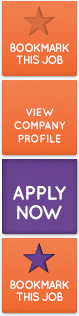
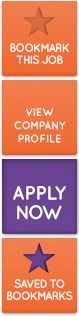
modify some linkages

Changed region(s): [[0.0759, 0.8829, 0.9367, 0.9684]]

diff --git a/theme/default/js/search-result.js b/theme/default/js/search-result.js
@@ -184,7 +184,8 @@ $(function(){
     var popDeleteJob = $('.pop-delete-job'),
     popDeleteCom = $('.pop-delete-company');
 
-    var popBookmark = $('.pop-bookmark');
+    var popBookmark = $('.pop-bookmark'),
+        popBookmarkSignup = $('.signup-pop-bookmark');
 
     //Pop apply
     var rowObj;
@@ -217,10 +218,16 @@ $(function(){
     $('.signup-pop-apply-close').click(function(){
         popMark.fadeOut();
         signupApply.fadeOut();
+        popBookmarkSignup.fadeOut();
     });
 
     $('.signup-pop-apply .signup-pop-btn').click(function(){
         signupApply.fadeOut();
+        popReg.fadeIn();
+    });
+
+    $('.signup-pop-bookmark .signup-pop-btn').click(function(){
+        popBookmarkSignup.fadeOut();
         popReg.fadeIn();
     });
 
@@ -274,7 +281,9 @@ $(function(){
         var job_id = $('#selected_job_id').val();
         // Delete JOB
         $.post(site_url + 'job/deletebookmarkinfo', {id: job_id, type: 'job'},
-            function(result,status) {
+            function(result) {
+                result = eval('('+result+')');
+                var status  = result.status;
                 if (status=='success') {
                     $('#jobdiv'+job_id).css('display', 'none');
                     alert('Delete successful!');
@@ -302,7 +311,9 @@ $(function(){
         var com_id = $('#selected_company_id').val();;
         // Delete JOB
         $.post(site_url + 'job/deletebookmarkinfo', {id: com_id, type: 'company'},
-            function(result,status) {
+            function(result) {
+                result = eval('('+result+')');
+                var status  = result.status;
                 if (status=='success') {
                     $('#jobdiv'+com_id).css('display', 'none');
                     alert('Delete successful!');
@@ -332,13 +343,17 @@ $(function(){
         var job_id = $('#selected_job_id').val();
         // Delete JOB
         $.post(site_url + 'job/bookmark', {id: job_id, type: 'job'},
-            function(result,status) {
+            function(result) {
+                result = eval('('+result+')');
+                var status  = result.status;
                 if (status=='success') {
                     $('#job-mark'+job_id).removeClass('job-btn-mark');
                     $('#job-mark'+job_id).addClass('job-btn-marked');
                     alert('Bookmark successful!');
                 } else if (status =='login') {
-                    alert('Please Login to bookmark this job.');
+                    popMark.fadeIn();
+                    $('.signup-pop-bookmark').css('display', 'block');
+                    //alert('Please Login to bookmark this job.');
                 } else {
                     alert(status);
                 }

diff --git a/theme/default/style/home.css b/theme/default/style/home.css
@@ -214,7 +214,7 @@ body{background:url(home/body_bg.png) no-repeat top fixed;}
     height:115px;position:absolute;top:50%;left:50%;background:url(search/signup_to_apply_job_pop_bg.png);}.pop-welcome b,.pop-welcome .span2{text-align:center;font-size:22px;color:#cb6139;font-family:Arial;line-height:26px;font-weight:bolder;}
 .signup-pop-apply-close{width:20px;height:20px;right:0px;cursor:pointer;display:block;}
 .signup-pop-apply-nav{padding:22px 20px 8px 20px;font-size:13px;color:#363636;font-weight:bold;}
-.signup-pop-apply .signup-pop-btn, signup-pop-bookmark{width:190px;height:28px;border:none;cursor:pointer;background: url(search/sign_up_btn_apply.png) no-repeat;}
+.signup-pop-apply .signup-pop-btn, .signup-pop-bookmark .signup-pop-btn {width:190px;height:28px;border:none;cursor:pointer;background: url(search/sign_up_btn_apply.png) no-repeat;}
 .profile_views_num{color:#ebebec;font-size:14px;font-weight:bold;}
 a.edit_jobseeker_profile_link{text-decoration:underline;margin-left:10px;color:#674092;}
 div.text{margin-top: 8px;}

diff --git a/application/views/default/job-details.php b/application/views/default/job-details.php
@@ -15,9 +15,9 @@
             </div>
             <div class="about-btns"> 
 	            <a href="#" class="png abtn apply"></a> 
-	            <a href="<?php echo $site_url.'company/companyInfo/'.$company_id?>" class="png abtn view"></a> 
-	            <a href="#" class="png abtn bkmk"></a> 
-	            <a href="#" class="png abtn bkmked" style="display:none;"></a> 
+	            <a href="<?php echo $site_url.'company/companyInfo/'.$company_id?>" class="png abtn view"></a>
+                <a href="javascript:void(0);" id="job-mark<?php echo $jobinfo['id']; ?>" class="png abtn <?php if (isset($jobinfo['id']) && in_array($jobinfo['id'], $bookmark)) echo "bkmked job-btn-marked"; else echo "bkmk job-btn-mark"; ?>" data-job-id="<?php echo $jobinfo['id']; ?>"></a>
+
             </div>
         </div>
         <div class="clear"></div>
@@ -121,6 +121,37 @@
 <!-- Partners -->
 <?php $this->load->view($front_theme.'/partners-block');?>
 
+<!--popmark-->
+<div class="pop-mark"></div>
+
+<!--pop bookmark job box-->
+<div class="box pop-box pop-bookmark">
+    <div class="rel">
+        <div class="pop-close pop-apply-close"></div>
+        <div class="pop-nav pop-apply-nav">
+            <p>Are you sure you want to bookmark this job?</p>
+        </div>
+        <div class="pop-bar">
+            <input type="hidden" id="selected_job_id" />
+            <a href="javascript:void(0);" class="pop-bar-btn pop-bookmark-yes">Yes</a>
+            <a href="javascript:void(0);" class="pop-bar-btn pop-btn-no">No</a>
+        </div>
+    </div>
+</div>
+
+<div class="signup-pop-bookmark">
+    <div class="rel">
+        <div class="pop-close signup-pop-apply-close abs"></div>
+        <div class="pop-nav signup-pop-apply-nav">
+            <p>Please register as a jobseeker to bookmark jobs.</p>
+        </div>
+        <div class="pop-bar">
+            <button href="javascript:void(0);" class="signup-pop-btn"></button>
+        </div>
+    </div>
+</div>
+
+<script type="text/javascript" src="<?php echo $theme_path?>js/search-result.js"></script>
 <script src="https://maps.googleapis.com/maps/api/js?v=3.exp&sensor=false"></script>
 <script type="text/javascript">
     var map;

diff --git a/application/controllers/job.php b/application/controllers/job.php
@@ -50,6 +50,19 @@ class job extends Front_Controller {
 		$data['jobinfo'] = $jobinfo;
         $data['industry'] = $industry_arr;
         $data["similar_jobs"] = $similar_jobs;
+
+        // get bookmarked jobs
+        if ($this->session->userdata('uid')) {
+            $bookmarked_job = $this->job_model->getBookmarkedJobByUser($this->session->userdata('uid'));
+        } else {
+            $bookmarked_job = array();
+        }
+        $bookmark = array();
+        foreach ($bookmarked_job as $a_job) {
+            array_push($bookmark, $a_job['job_id']);
+        }
+        $data['bookmark'] = $bookmark;
+
         $this->load->view($data['front_theme']."/job-details",$data);
     }
     
@@ -221,6 +234,9 @@ class job extends Front_Controller {
             $data['jobs'][$key]['languages'] = $this->job_model->getJobLanguages($job['id']);
             $data['jobs'][$key]['industries'] = $this->job_model->getJobIndustry($job['id']);
         }
+
+        $interview_num = $this->jobseeker_model->getInterviews("i.uid=$uid");
+        $data['my_interviews_num'] = count($interview_num);
         
         $this->load->view($data['front_theme']."/jobseeker-applied-jobs",$data);
     }

diff --git a/application/views/default/jobseeker-applied-jobs.php b/application/views/default/jobseeker-applied-jobs.php
@@ -23,9 +23,11 @@
           <a href="<?php echo $site_url?>jobseeker/register" class="png square_btn edit_profile_btn"></a>
           <a href="#" class="png square_btn jingchat_inbox_btn"></a>
           <?php if (!empty($unread_msg_num)): ?><span class="bubble jingchat_inbox_bubble"><?php echo $unread_msg_num; ?></span><?php endif; ?>
-          <a href="#" class="png square_btn saved_bookmarks_btn"></a>
-          <a href="#" class="png square_btn view_my_interviews_btn"></a>
-          <?php if (!empty($my_interviews_num)): ?><span class="bubble view_my_interviews_bubble"><?php echo $my_interviews_num; ?></span><?php endif;?>
+          <a href="<?php echo $site_url; ?>jobseeker/savedBookmarks" class="png square_btn saved_bookmarks_btn"></a>
+          <a href="<?php echo $site_url; ?>jobseeker/viewInterviews" class="png square_btn view_my_interviews_btn"></a>
+          <?php if (!empty($my_interviews_num)): ?>
+          <span class="bubble view_my_interviews_bubble"><?php echo $my_interviews_num; ?></span>
+          <?php endif;?>
          </div>
     </div>
 

diff --git a/application/views/default/jobseeker-myprofile.php b/application/views/default/jobseeker-myprofile.php
@@ -26,9 +26,11 @@
           <a href="<?php echo $site_url?>jobseeker/register" class="png square_btn edit_profile_btn"></a>
           <a href="#" class="png square_btn jingchat_inbox_btn"></a>
           <span class="bubble jingchat_inbox_bubble">2</span>
-          <a href="#" class="png square_btn saved_bookmarks_btn"></a>
-          <a href="#" class="png square_btn view_my_interviews_btn"></a>
-          <span class="bubble view_my_interviews_bubble">10</span>
+          <a href="<?php echo $site_url; ?>jobseeker/savedBookmarks" class="png square_btn saved_bookmarks_btn"></a>
+          <a href="<?php echo $site_url; ?>jobseeker/viewInterviews" class="png square_btn view_my_interviews_btn"></a>
+          <span class="bubble view_my_interviews_bubble">
+              <?php echo $interview_num; ?>
+          </span>
          </div>
     </div>
     <div class="company-bd jobseeker-bd">

diff --git a/application/views/default/header-block.php b/application/views/default/header-block.php
@@ -105,7 +105,7 @@
                             <script>userType = 0;</script>
                             <li><a href="<?php echo $site_url?>jobseeker/viewprofile">View Profile</a></li>
                             <li><a href="<?php echo $site_url?>jobseeker/register">Edit Profile</a></li>
-                            <li><a href="#">Bookmarked Employers</a></li>
+                            <li><a href="<?php echo $site_url; ?>jobseeker/savedBookmarks">Bookmarked Employers</a></li>
                             <li><a href="#">Shortlisted Jobs</a></li>
                             <li><a href="<?php echo $site_url?>job/appliedjobs">Applied Jobs</a></li>
                         <?php elseif(1 == $current_user_type): ?>

diff --git a/application/controllers/jobseeker.php b/application/controllers/jobseeker.php
@@ -160,6 +160,9 @@ class jobseeker extends Front_Controller {
     $data['language'] = $this->jobseeker_model->getLanguage($uid);
     $data['seekingIndustry'] = $this->jobseeker_model->getAllSeekingIndustry($uid);
     $data['similar_peoples'] = $this->jobseeker_model->getSimilarUsers($uid);
+
+    $interview_num = $this->jobseeker_model->getInterviews("i.uid=$uid");
+    $data['interview_num'] = count($interview_num);
     $this->load->view($data['front_theme']."/jobseeker-myprofile",$data);
 }
     public function savedBookmarks(){

diff --git a/application/views/default/search-job-result.php b/application/views/default/search-job-result.php
@@ -373,7 +373,7 @@
             <p>Please register as a jobseeker to bookmark jobs.</p>
         </div>
         <div class="pop-bar">
-            <button href="javascript:void(0);" class="signup-pop-btn"></button>
+            <button href="<?php echo $site_url; ?>" class="signup-pop-btn"></button>
         </div>
     </div>
 </div>
